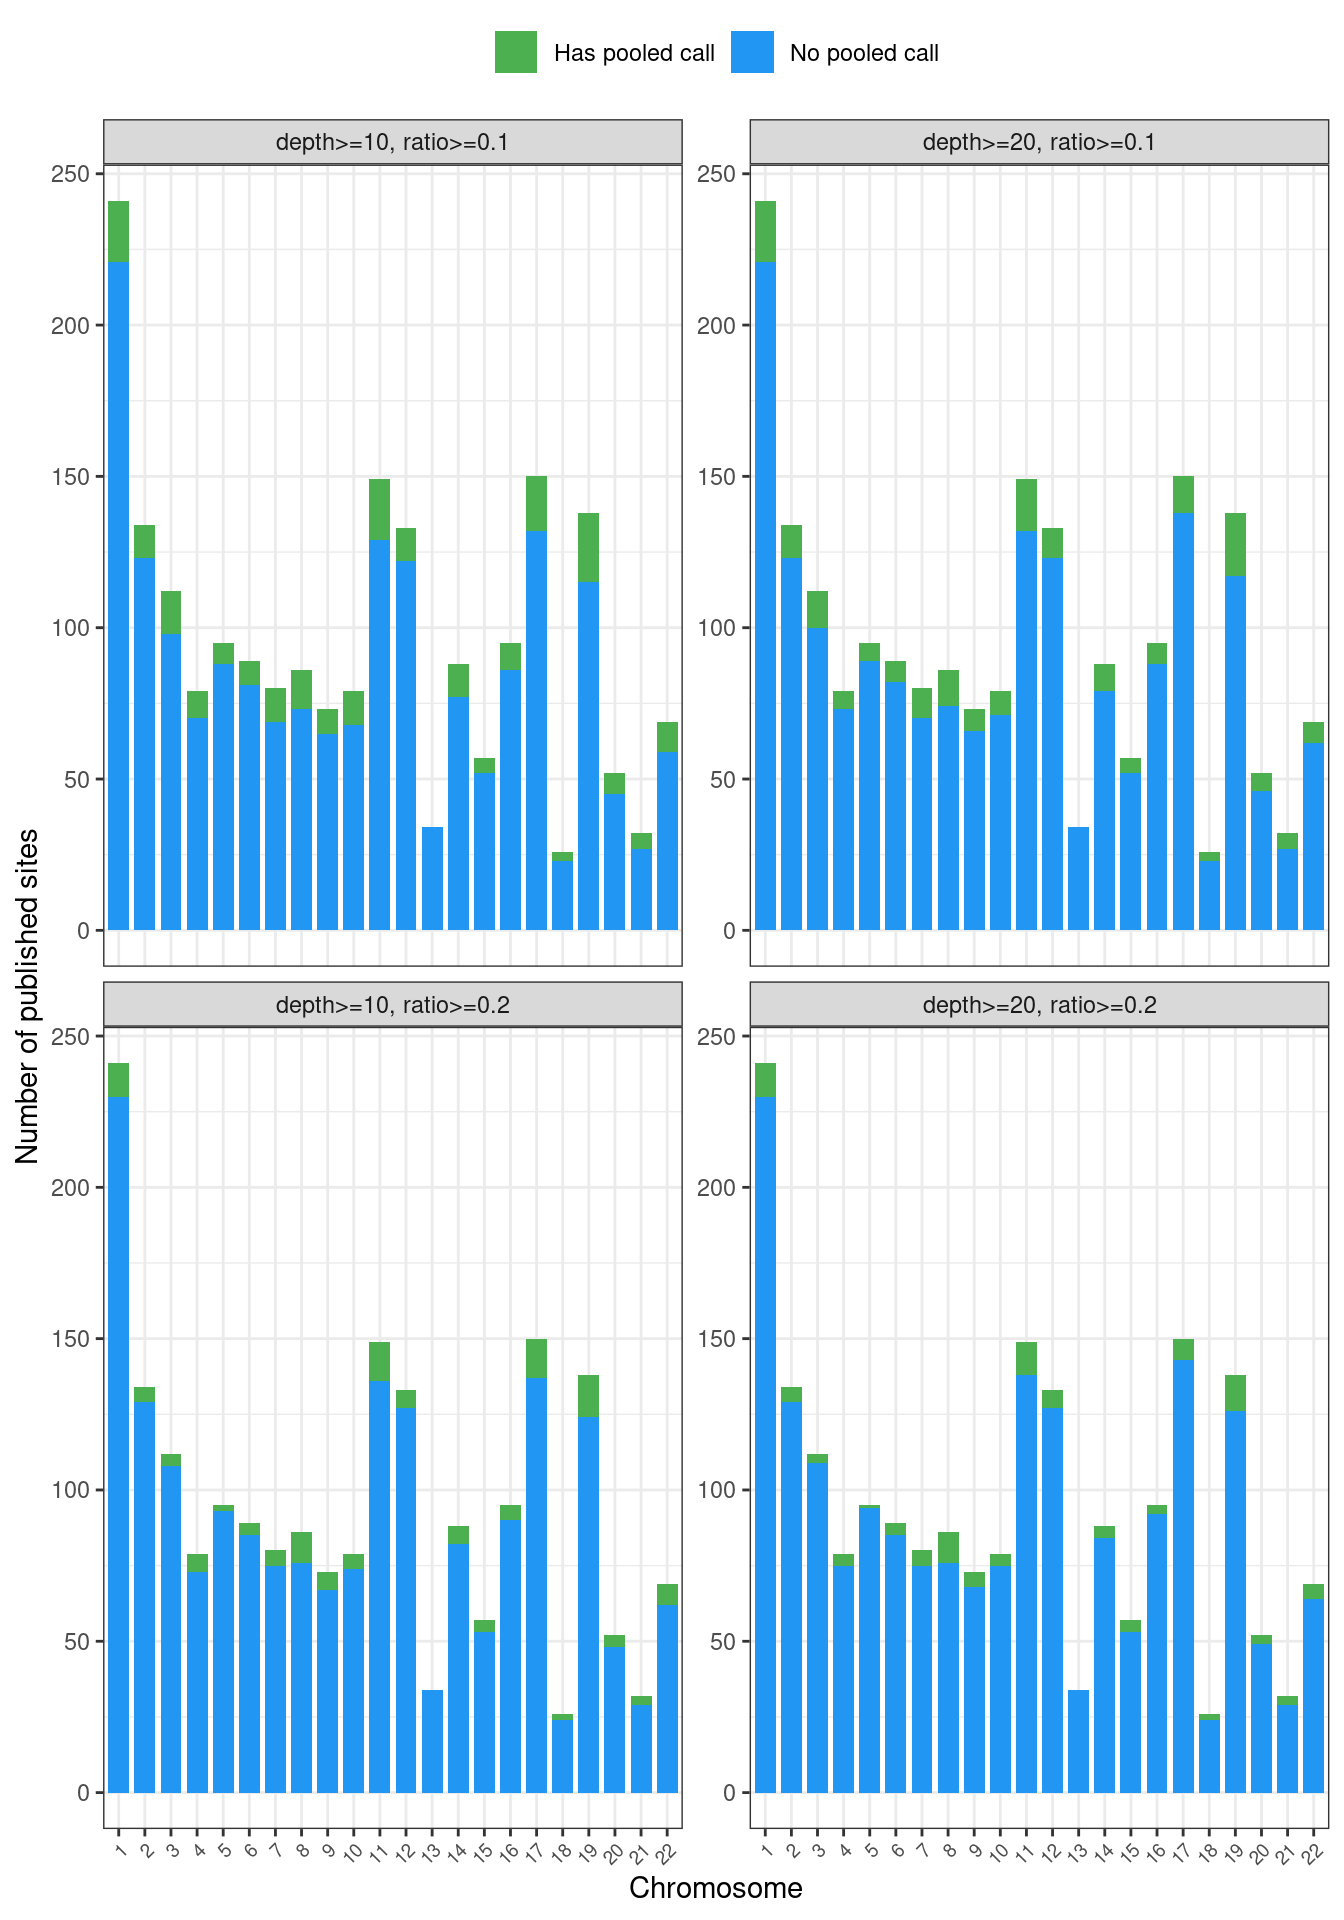
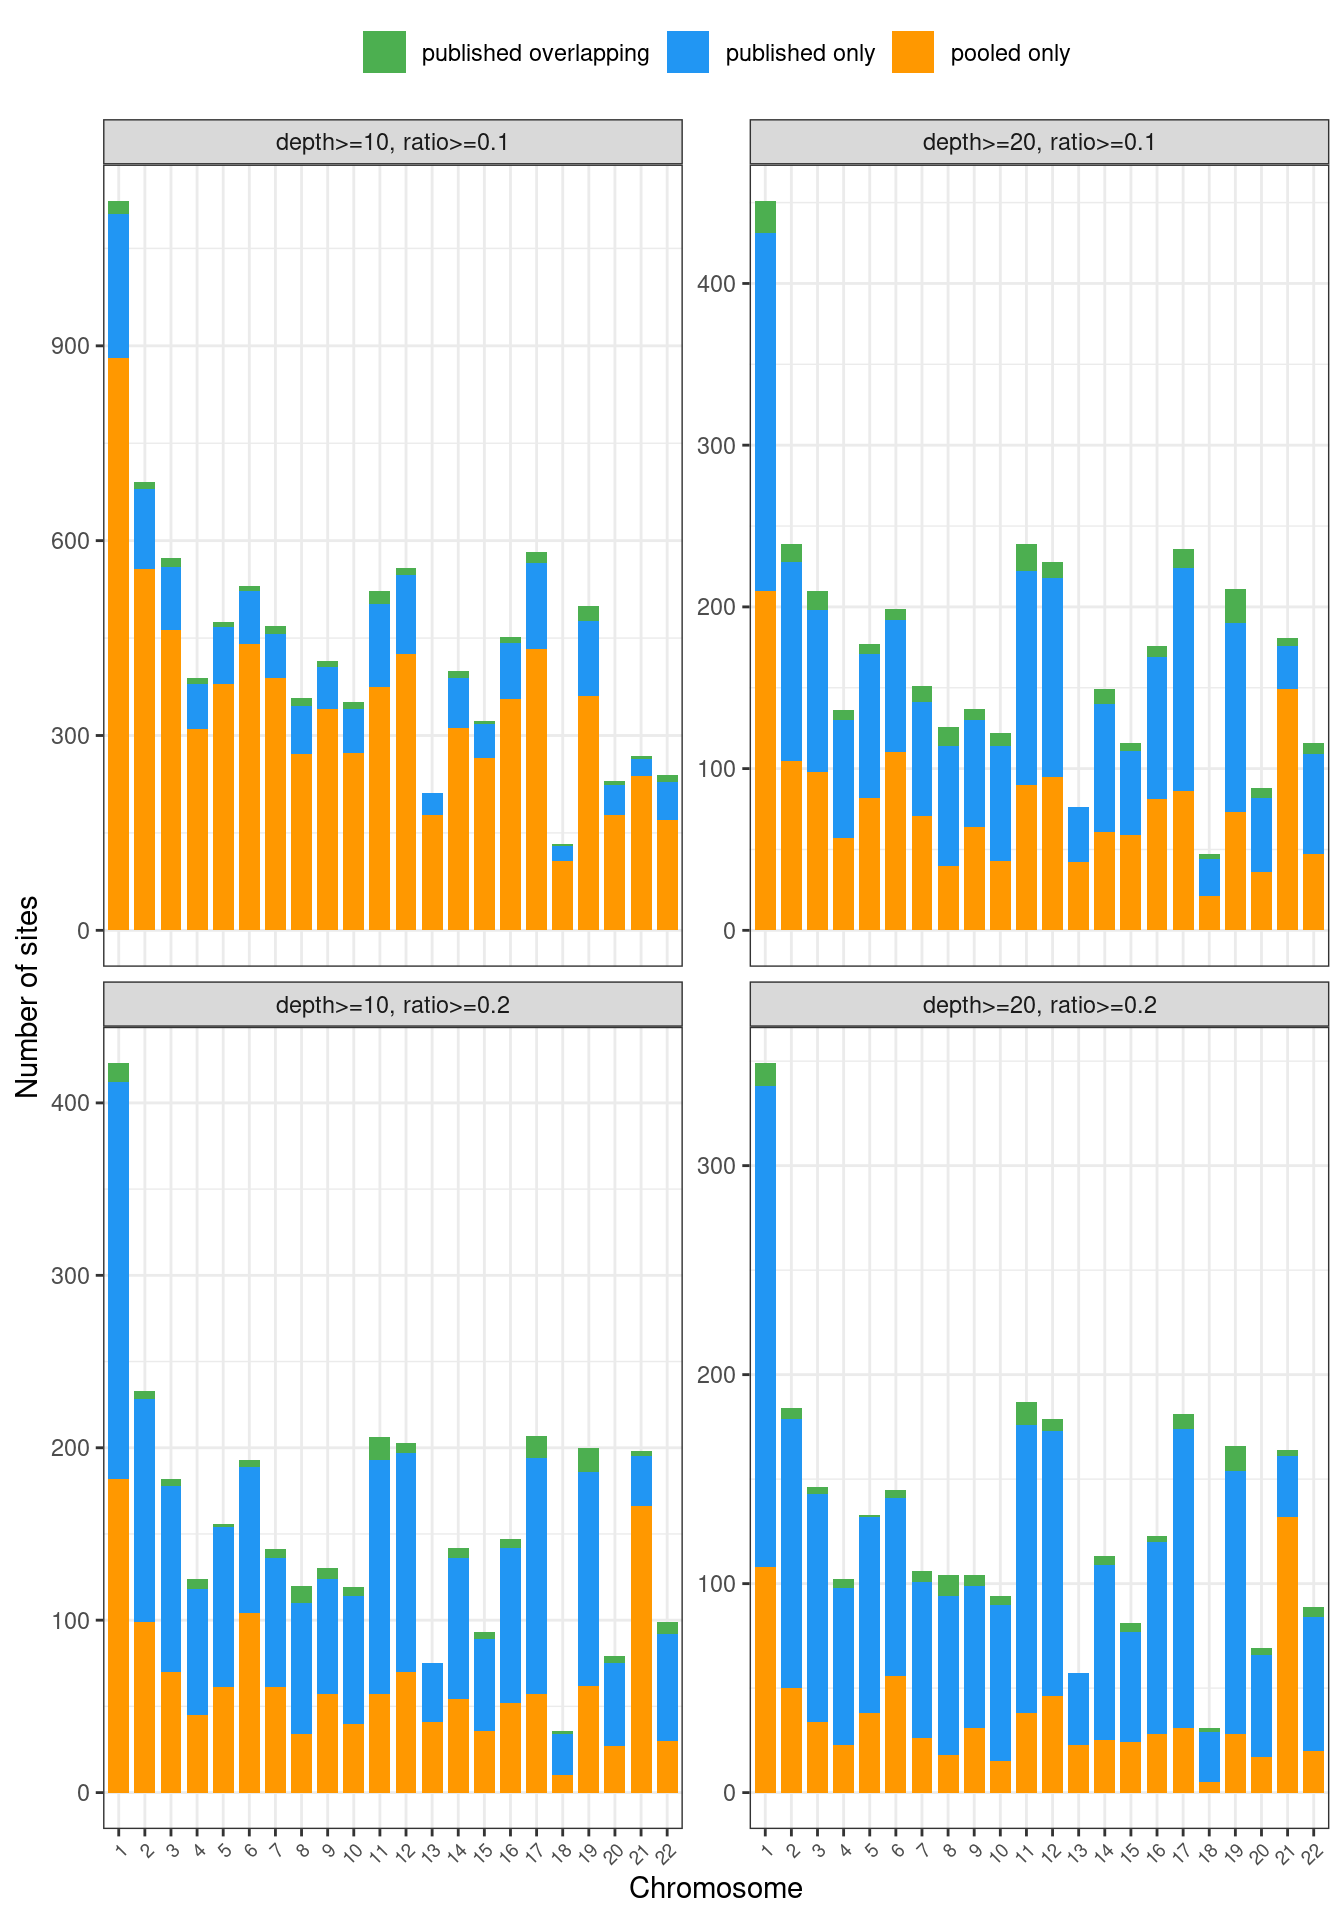
update

diff --git a/docs/qc_CL18870.html b/docs/qc_CL18870.html
@@ -547,15 +547,15 @@ project makes it easier to run your code on other machines.</p>
 <div class="panel panel-default">
 <div class="panel-heading">
 <p class="panel-title">
-<a data-toggle="collapse" data-parent="#workflowr-checks" href="#strongRepositoryversionstrongahrefhttpsgithubcomxsun1229pumseqtree170742767e0b428f6407d14081ecef50e0aa8052targetblank1707427a">
+<a data-toggle="collapse" data-parent="#workflowr-checks" href="#strongRepositoryversionstrongahrefhttpsgithubcomxsun1229pumseqtree1353670a887793cb81a4b25716339355bf2a2d49targetblank1353670a">
 <span class="glyphicon glyphicon-ok text-success"
 aria-hidden="true"></span> <strong>Repository version:</strong>
-<a href="https://github.com/xsun1229/pumseq/tree/170742767e0b428f6407d14081ecef50e0aa8052" target="_blank">1707427</a>
+<a href="https://github.com/xsun1229/pumseq/tree/1353670a887793cb81a4b25716339355bf2a2d49" target="_blank">1353670</a>
 </a>
 </p>
 </div>
 <div
[2 lines of base64/hex data omitted]
 class="panel-collapse collapse">
 <div class="panel-body">
 <p>
@@ -565,7 +565,7 @@ reproducibility.
 </p>
 <p>
 The results in this page were generated with repository version
-<a href="https://github.com/xsun1229/pumseq/tree/170742767e0b428f6407d14081ecef50e0aa8052" target="_blank">1707427</a>.
+<a href="https://github.com/xsun1229/pumseq/tree/1353670a887793cb81a4b25716339355bf2a2d49" target="_blank">1353670</a>.
 See the <em>Past versions</em> tab to see a history of the changes made
 to the R Markdown and HTML files.
 </p>
@@ -579,7 +579,11 @@ depends on. Below is the status of the Git repository when the results
 were generated:
 </p>
 <pre><code>
+Untracked files:
+    Untracked:  analysis/qc_CL18909.Rmd
+
 Unstaged changes:
+    Modified:   analysis/index.Rmd
     Modified:   analysis/qc_CL18870.Rmd
 
 </code></pre>
@@ -626,6 +630,40 @@ Message
 </tr>
 </thead>
 <tbody>
+<tr>
+<td>
+Rmd
+</td>
+<td>
+<a href="https://github.com/xsun1229/pumseq/blob/1353670a887793cb81a4b25716339355bf2a2d49/analysis/qc_CL18870.Rmd" target="_blank">1353670</a>
+</td>
+<td>
+XSun
+</td>
+<td>
[phone redacted]
+</td>
+<td>
+update
+</td>
+</tr>
+<tr>
+<td>
+html
+</td>
+<td>
+<a href="https://rawcdn.githack.com/xsun1229/pumseq/1353670a887793cb81a4b25716339355bf2a2d49/docs/qc_CL18870.html" target="_blank">1353670</a>
+</td>
+<td>
+XSun
+</td>
+<td>
[phone redacted]
+</td>
+<td>
+update
+</td>
+</tr>
 <tr>
 <td>
 Rmd
@@ -2697,6 +2735,17 @@ Date
 <tbody>
 <tr>
 <td>
+<a href="https://github.com/xsun1229/pumseq/blob/1353670a887793cb81a4b25716339355bf2a2d49/docs/figure/qc_CL18870.Rmd/overlap-bar-1.png" target="_blank">1353670</a>
+</td>
+<td>
+XSun
+</td>
+<td>
[phone redacted]
+</td>
+</tr>
+<tr>
+<td>
 <a href="https://github.com/xsun1229/pumseq/blob/170742767e0b428f6407d14081ecef50e0aa8052/docs/figure/qc_CL18870.Rmd/overlap-bar-1.png" target="_blank">1707427</a>
 </td>
 <td>
@@ -2764,6 +2813,17 @@ Date
 <tbody>
 <tr>
 <td>
+<a href="https://github.com/xsun1229/pumseq/blob/1353670a887793cb81a4b25716339355bf2a2d49/docs/figure/qc_CL18870.Rmd/overlap-pct-1.png" target="_blank">1353670</a>
+</td>
+<td>
+XSun
+</td>
+<td>
[phone redacted]
+</td>
+</tr>
+<tr>
+<td>
 <a href="https://github.com/xsun1229/pumseq/blob/170742767e0b428f6407d14081ecef50e0aa8052/docs/figure/qc_CL18870.Rmd/overlap-pct-1.png" target="_blank">1707427</a>
 </td>
 <td>
@@ -2825,6 +2885,17 @@ Date
 </tr>
 </thead>
 <tbody>
+<tr>
+<td>
+<a href="https://github.com/xsun1229/pumseq/blob/1353670a887793cb81a4b25716339355bf2a2d49/docs/figure/qc_CL18870.Rmd/overlap-chrom-1.png" target="_blank">1353670</a>
+</td>
+<td>
+XSun
+</td>
+<td>
[phone redacted]
+</td>
+</tr>
 <tr>
 <td>
 <a href="https://github.com/xsun1229/pumseq/blob/170742767e0b428f6407d14081ecef50e0aa8052/docs/figure/qc_CL18870.Rmd/overlap-chrom-1.png" target="_blank">1707427</a>
@@ -2900,6 +2971,17 @@ Date
 </tr>
 </thead>
 <tbody>
+<tr>
+<td>
+<a href="https://github.com/xsun1229/pumseq/blob/1353670a887793cb81a4b25716339355bf2a2d49/docs/figure/qc_CL18870.Rmd/overlap-venn-1.png" target="_blank">1353670</a>
+</td>
+<td>
+XSun
+</td>
+<td>
[phone redacted]
+</td>
+</tr>
 <tr>
 <td>
 <a href="https://github.com/xsun1229/pumseq/blob/170742767e0b428f6407d14081ecef50e0aa8052/docs/figure/qc_CL18870.Rmd/overlap-venn-1.png" target="_blank">1707427</a>
@@ -3259,6 +3341,17 @@ Date
 <tbody>
 <tr>
 <td>
+<a href="https://github.com/xsun1229/pumseq/blob/1353670a887793cb81a4b25716339355bf2a2d49/docs/figure/qc_CL18870.Rmd/overlap2-bar-1.png" target="_blank">1353670</a>
+</td>
+<td>
+XSun
+</td>
+<td>
[phone redacted]
+</td>
+</tr>
+<tr>
+<td>
 <a href="https://github.com/xsun1229/pumseq/blob/170742767e0b428f6407d14081ecef50e0aa8052/docs/figure/qc_CL18870.Rmd/overlap2-bar-1.png" target="_blank">1707427</a>
 </td>
 <td>
@@ -3382,6 +3475,17 @@ Date
 <tbody>
 <tr>
 <td>
+<a href="https://github.com/xsun1229/pumseq/blob/1353670a887793cb81a4b25716339355bf2a2d49/docs/figure/qc_CL18870.Rmd/overlap2-pct-1.png" target="_blank">1353670</a>
+</td>
+<td>
+XSun
+</td>
+<td>
[phone redacted]
+</td>
+</tr>
+<tr>
+<td>
 <a href="https://github.com/xsun1229/pumseq/blob/170742767e0b428f6407d14081ecef50e0aa8052/docs/figure/qc_CL18870.Rmd/overlap2-pct-1.png" target="_blank">1707427</a>
 </td>
 <td>
@@ -3399,22 +3503,27 @@ XSun
 published intervals hit by at least one pooled call vs not hit, faceted
 by cutoff.</p>
 <pre class="r"><code>map_dfr(results2, function(x) {
-  x$others %&gt;%
-    count(ref, in_pooled) %&gt;%
+  bind_rows(
+    x$others %&gt;% filter( in_pooled) %&gt;% count(ref) %&gt;% mutate(category = &quot;published overlapping&quot;),
+    x$others %&gt;% filter(!in_pooled) %&gt;% count(ref) %&gt;% mutate(category = &quot;published only&quot;),
+    x$pooled %&gt;% filter(!in_others) %&gt;% count(ref) %&gt;% mutate(category = &quot;pooled only&quot;)
+  ) %&gt;%
     mutate(cutoff = x$label)
 }) %&gt;%
   mutate(
-    ref    = factor(ref, levels = as.character(1:22)),
-    cutoff = factor(cutoff, levels = cutoffs2$label),
-    group  = ifelse(in_pooled, &quot;Has pooled call&quot;, &quot;No pooled call&quot;)
+    ref      = factor(ref, levels = as.character(1:22)),
+    cutoff   = factor(cutoff, levels = cutoffs2$label),
+    category = factor(category,
+                      levels = c(&quot;published overlapping&quot;, &quot;published only&quot;, &quot;pooled only&quot;))
   ) %&gt;%
-  ggplot(aes(x = ref, y = n, fill = group)) +
+  ggplot(aes(x = ref, y = n, fill = category)) +
   geom_col(position = &quot;stack&quot;, width = 0.8) +
-  scale_fill_manual(values = c(`Has pooled call` = &quot;#4CAF50&quot;,
-                               `No pooled call`  = &quot;#2196F3&quot;)) +
+  scale_fill_manual(values = c(`published overlapping` = &quot;#4CAF50&quot;,
+                               `published only`         = &quot;#2196F3&quot;,
+                               `pooled only`            = &quot;#FF9800&quot;)) +
   scale_y_continuous(labels = comma) +
   facet_wrap(~cutoff, ncol = 2, scales = &quot;free_y&quot;) +
-  labs(x = &quot;Chromosome&quot;, y = &quot;Number of published sites&quot;, fill = NULL) +
+  labs(x = &quot;Chromosome&quot;, y = &quot;Number of sites&quot;, fill = NULL) +
   theme_bw(base_size = 11) +
   theme(axis.text.x = element_text(angle = 45, hjust = 1, size = 7),
         legend.position = &quot;top&quot;)</code></pre>
@@ -3447,6 +3556,17 @@ Date
 </tr>
 </thead>
 <tbody>
+<tr>
+<td>
+<a href="https://github.com/xsun1229/pumseq/blob/1353670a887793cb81a4b25716339355bf2a2d49/docs/figure/qc_CL18870.Rmd/overlap2-chrom-1.png" target="_blank">1353670</a>
+</td>
+<td>
+XSun
+</td>
+<td>
[phone redacted]
+</td>
+</tr>
 <tr>
 <td>
 <a href="https://github.com/xsun1229/pumseq/blob/170742767e0b428f6407d14081ecef50e0aa8052/docs/figure/qc_CL18870.Rmd/overlap2-chrom-1.png" target="_blank">1707427</a>
@@ -3523,6 +3643,17 @@ Date
 </tr>
 </thead>
 <tbody>
+<tr>
+<td>
+<a href="https://github.com/xsun1229/pumseq/blob/1353670a887793cb81a4b25716339355bf2a2d49/docs/figure/qc_CL18870.Rmd/overlap2-scatter-1.png" target="_blank">1353670</a>
+</td>
+<td>
+XSun
+</td>
+<td>
[phone redacted]
+</td>
+</tr>
 <tr>
 <td>
 <a href="https://github.com/xsun1229/pumseq/blob/170742767e0b428f6407d14081ecef50e0aa8052/docs/figure/qc_CL18870.Rmd/overlap2-scatter-1.png" target="_blank">1707427</a>